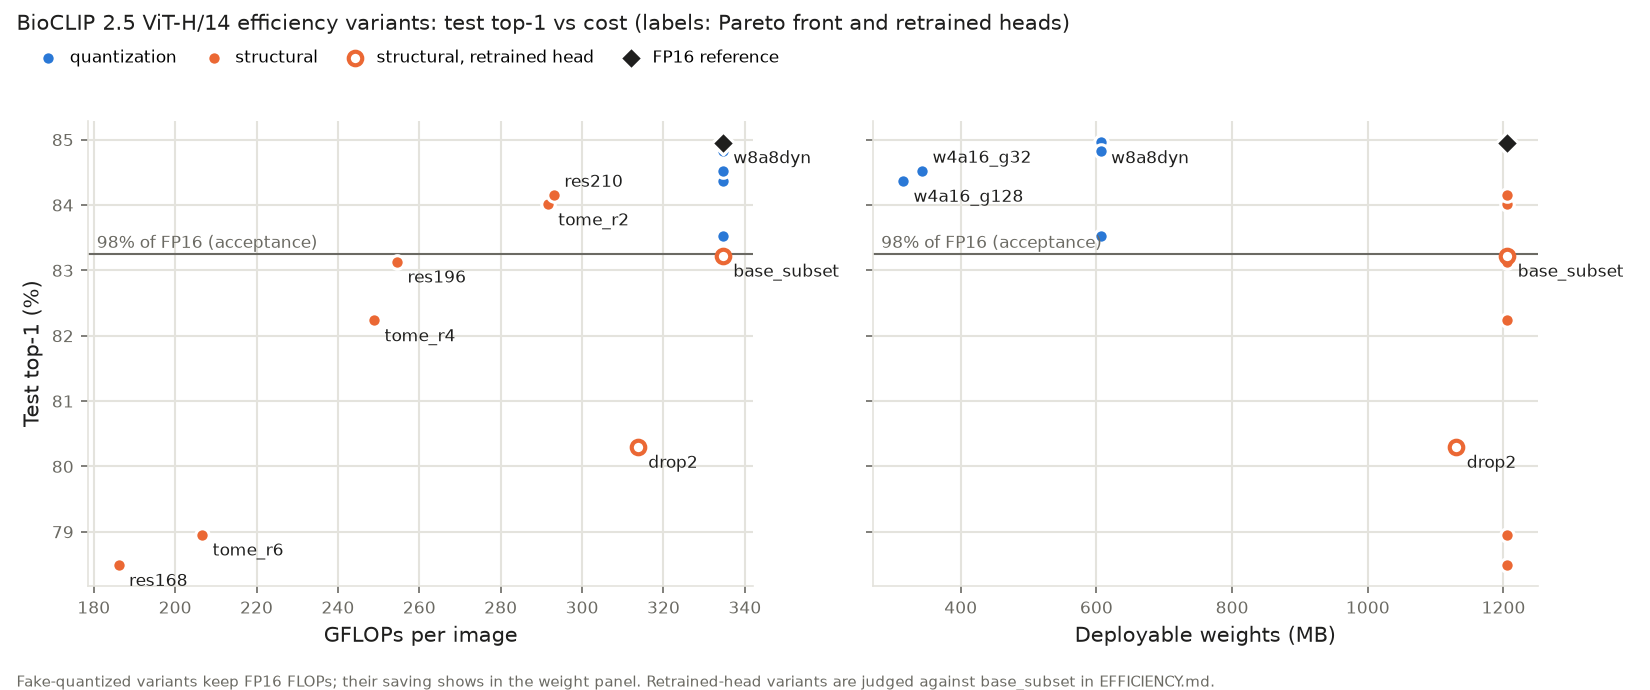
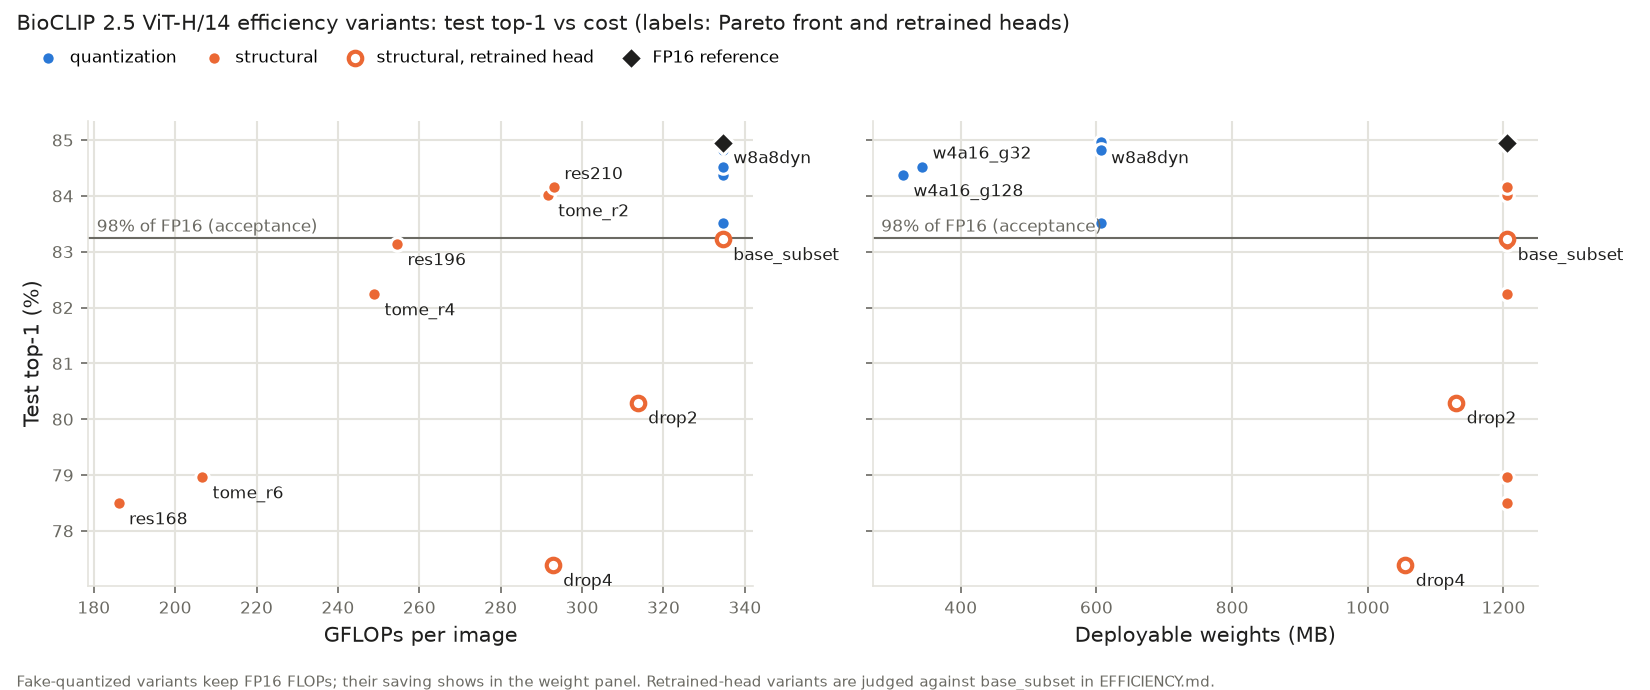
Overnight round 4: Phase A closed (drop2/drop4 dominated, res210 first fallback, 8da4w val), static+structure val_ext caveat in D-032, OWLv2 GPU fix and throughput (30 img/s), STATUS: DONE

diff --git a/ops/OVERNIGHT.md b/ops/OVERNIGHT.md
@@ -62,9 +62,9 @@ Notes on the token-merging grid:
 
 ## Plan
 ### Phase A: efficiency (priority)
-- [ ] **A1 (round 3: 5 of 6 done):**
+- [x] **A1 (done in round 4):**
   - Done: `fp16` 84.95, `w8a16` 84.94, `w8a8dyn` 84.96, `w4a16_g128` 84.37 (−0.58 pt, 315 MB), `w4a16_g32` 84.52 (−0.43 pt, 343 MB).
-  - Queued: `w4a8dyn_g32` (after the A4 screens and `res210`).
+  - `w4a8dyn_g32` (8da4w), val-only: regional val 89.66% (`w4a16_g32` 89.63%), val_ext 48.05% (48.34%). Dynamic INT8 activations add nothing on top of W4, so no test run (D-032).
   - References and weight-only / dynamic quantization:
   - `fp16`
   - `w8a16`
@@ -77,20 +77,20 @@ Notes on the token-merging grid:
   - Queued, val-only: `w8a8p_s0.5_k1` and `w8a8p_s0.5_k4`, which keep `b1.fc1` (or the top 4 layers) in FP16. `b1.fc1` is 3.3× more sensitive than any other layer. This shows how much one fallback layer buys. Run k1 on test only if it recovers ≥ 0.5 pt on val and the GPU has time.
   - The calibration sampler is seeded from commit 9650bac on, so earlier static runs carry about ±0.15 pt of calibration noise.
   - **Round 3: min/max activation ranges remove the loss on val** (`w8a8_s0.5_p100`: regional val 90.10% vs FP16 90.03% and k0 88.75–88.90%; cosine 0.9955 vs 0.944). The real PT2E graph agrees: `MinMaxObserver` gives cosine 0.995 against 0.975 for the default `HistogramObserver` (`export_check.csv`, `--pt2e-only`). **Test: 84.82% (−0.12 pt, rel 0.9985), DMR 5.56% / 4.42%** (D-028: 83.52%, 6.20% / 4.68%). Recorded as **D-031**, which replaces D-028's ranges.
-- [ ] **A3: structural variants.** *(Round 3: ToMe and resolution done; `res210` added and queued, then `base_subset`, `drop2`, `drop4`.)*
+- [x] **A3: structural variants.** *(Done in round 4. Test (Δ, GFLOPs): `res210` 84.15 (−0.80 vs FP16, 293). Against `base_subset` (83.22): `drop2` 80.30 (−2.92, 314) and `drop4` 77.39 (−5.84, 293). Block dropping is dominated; see D-032.)*
   - Test top-1 (Δ vs FP16, GFLOPs): `tome_r2` 84.01 (−0.94, 292), `tome_r4` 82.24 (−2.71, 249), `tome_r6` 78.96 (−5.99, 207), `res196` 83.13 (−1.81, 255, 247 img/s vs 188), `res168` 78.49 (−6.46, 186).
   - Contact DMR rises faster than top-1 falls: `res196` 5.46 → 6.40%, `tome_r2` → 5.72%, `tome_r4` → 7.24%.
   - `tome_r2`, `tome_r4`, `tome_r6`
   - `res196`, `res168`
   - `base_subset` (retrained head on 40 images per species), then `drop2` and `drop4`. A dropped-block variant must be compared with `base_subset`, not with the production head.
-- [ ] **A4: combinations along the Pareto front.** At most about 6 jobs, chosen from A1–A3. Example: the accepted partial W8A8 with the best token-merging r or resolution, or W4A16 with token merging. For a static combination, recompute sensitivity only if the structure changes a lot.
+- [x] **A4: combinations along the Pareto front.** *(Done in round 4: two val-only screens, no test picks. Additive on regional val, but static W8A8 adds a significant val_ext loss on top of a structure: −0.76 pt on `res196`, paired p = 0.004; −0.97 pt on `tome_r2`, p = 0.001. Recorded in D-032.)* At most about 6 jobs, chosen from A1–A3. Example: the accepted partial W8A8 with the best token-merging r or resolution, or W4A16 with token merging. For a static combination, recompute sensitivity only if the structure changes a lot.
   - **GPU time is the constraint (round 2):** the queue runs until about 09:10, and the runner starts nothing after 10:00. Screen combos with `--val-only` (about 5 min each, 27K images), then run test (about 20–36 min) only for the 1–2 picks.
   - **Insert combos ahead of `base_subset`/`drop2`/`drop4`.** Those are the lowest-value jobs (−6%/−12% FLOPs, need a retrained head), so `drop4` is the first job to cut if time runs out.
   - Weight-only and dynamic INT8 are lossless (w8a16 −0.01 pt, w8a8dyn +0.01 pt), so a `w8a16 + tome_rX` combo will land within noise of `tome_rX`. Prefer combos whose interaction is uncertain: static W8A8 + tome/res, and W4 + tome/res.
   - **Round 3: screens done, both additive (round 3 journal); no combo test runs.** Original note: `w8a8_s0.5_p100_res196` and `w8a8_s0.5_p100_tome2`. Compare each with its float structure's val (`res196` 88.25, `tome_r2` 89.23). If the static penalty on top of the structure is ≤ 0.2 pt val, the combo is additive and needs no test run; the report can cite the screen. Run test only for a combo that is a real candidate (see the round 3 journal for the time rule).
-- [ ] **A5: report.**
+- [x] **A5: report.**
   - [x] Add `src/transferner/eval/efficiency_report.py`, producing `results/EFFICIENCY.md` (a table of every variant: top-1/top-5 on test, Δ vs FP16, val, weight MB, GFLOPs) and `results/figures/efficiency_pareto.png` (test top-1 against GFLOPs and against weight MB). Load the `dataviz` skill before writing the chart code. *(Round 1: written and checked on a synthetic table. It runs on the CPU and also reports DMR per variant from the saved embeddings. Rerun it whenever rows land: `python -m transferner.eval.efficiency_report`.)*
-  - [x] Add a decision entry recommending variants per runtime (LiteRT GPU, NPU, XNNPACK CPU), and state plainly what needs the phone: latency, memory and NPU compile. *(Round 3: **D-032**. GPU: W8A16, with W4A16 g32 as the memory fallback. NPU: static W8A8 per D-031. CPU: 8da8w. No structural cut by default. Still to add: `res210`, `drop2`/`drop4` and the 8da4w val number.)*
+  - [x] Add a decision entry recommending variants per runtime (LiteRT GPU, NPU, XNNPACK CPU), and state plainly what needs the phone: latency, memory and NPU compile. *(Round 3: **D-032**. GPU: W8A16, with W4A16 g32 as the memory fallback. NPU: static W8A8 per D-031. CPU: 8da8w. No structural cut by default. Round 4 added `res210`, `drop2`/`drop4`, the 8da4w val number and the static + structure val_ext caveat.)*
 - [x] **A6 (optional, after A5): export feasibility on x86.** *(LiteRT part done in round 2, recorded as D-029. ExecuTorch was not tried: it pins torch 2.15 and would need its own venv.)*
   - Set up `.venv-export` (CPU torch) with ai-edge-torch and/or executorch.
   - Export the FP16 and W8 variants and check outputs against PyTorch on 64 images.
@@ -166,10 +166,11 @@ Notes on the token-merging grid:
 - **Round 1 assessment:** the queue (A1, A2, B, A3) runs until about 09:00, and A4 comes after it, so Phase D's GPU work will not fit before the 10:00 stop tonight. A later round with spare CPU time may write `pseudo_boxes.py` and test it on a few images on the CPU. Both stubs are still `NotImplementedError`. `transformers` 5.23 and `timm` 1.0.31 are already in `.venv`.
 - **Packages:** install missing ones such as `transformers` and `timm` into `.venv` with `uv`.
 - [x] **Round 3: licences checked** (HF API, cached under `raw/hf_cards/`): `google/owlv2-base-patch16-ensemble` and `timm/mobilenetv4_conv_medium.e500_r256_in1k` are both Apache-2.0.
-- [x] **Round 3: `data/pseudo_boxes.py` written and CPU-tested.** OWLv2 over at most `--per-genus` (default 20) non-specimen images per genus from train/val/test. Boxes keep their best prompt, go through class-agnostic NMS at IoU 0.5 and are capped at 10 per image, with a full-frame fallback. OWLv2's padded-square boxes are mapped back to the original image, and the geometry was checked visually on portrait and landscape photos. Output is resumable in 2,048-image parts. Run it on the GPU through the queue, `python -m transferner.data.pseudo_boxes`, once Phase A's GPU work is done. CPU runs at 0.2 img/s. On the GPU, expect tens of img/s; measure it.
+- [x] **Round 3: `data/pseudo_boxes.py` written and CPU-tested.** OWLv2 over at most `--per-genus` (default 20) non-specimen images per genus from train/val/test. Boxes keep their best prompt, go through class-agnostic NMS at IoU 0.5 and are capped at 10 per image, with a full-frame fallback. OWLv2's padded-square boxes are mapped back to the original image, and the geometry was checked visually on portrait and landscape photos. Output is resumable in 2,048-image parts. Run it on the GPU through the queue, `python -m transferner.data.pseudo_boxes`, once Phase A's GPU work is done. CPU runs at 0.2 img/s. **Round 4: the GPU runs at 29–33 img/s** (after a device fix), so the full 27,017-image selection takes about 15 min. `drop_nested()` is the training-time cleanup.
 - **Out of reach here:** the field video test set (D-018) needs the user's walks.
 
 ## Journal
+STATUS: DONE
 (Newest last. Each round: what was seen, decided and queued, and what the next round should do first.)
 
 - **2026-11-19, interactive session (pre-launch):**
@@ -276,3 +277,45 @@ Notes on the token-merging grid:
        Then tick A1 and A3, and A4 (screens done, no test picks, see above).
     3. Don't add GPU jobs that can't start before 10:00. If the queue empties early, the only planned GPU work left is Phase D: `python -m transferner.data.pseudo_boxes`, about 30K images at 20 per genus. Throughput is unmeasured, so queue it only if it would start before about 09:30.
     4. After 10:00 everything left is phone work (D-032's list), Phase B's bryophyte field photos (needs the manifests free), Phase C's second source (USDA still 504), and Phase D training. Unless a job failed, write `STATUS: DONE` under "## Journal" with that summary.
+- **2026-11-19, round 4 (09:25–10:02):**
+  - **Found:**
+    - All jobs since round 3 finished with rc 0: `res210`, `w4a8dyn_g32` (val-only), `base_subset`, `drop2` and `drop4`.
+    - **`res210`:** test 84.15% (−0.80 pt) at −12% GFLOPs and +7% GPU img/s. DMR 5.68% / 4.67%. At `tome_r2`'s FLOPs it scores 0.14 pt more (paired McNemar p = 0.019) and keeps a plain static graph, so it is the first structural fallback in D-032.
+    - **Block dropping is dominated** (Δ against `base_subset`, 83.22%):
+      - `drop2`: −2.92 pt for −6% GFLOPs; contact DMR 6.16% → 8.63%.
+      - `drop4`: −5.84 pt (77.39%) for −12.5% GFLOPs, the same saving as `res210` at seven times the loss; contact DMR 10.40%.
+      - `res210` saves twice `drop2`'s FLOPs at about a quarter of the loss. Block dropping is off D-032's fallback list.
+    - **8da4w** (`w4a8dyn_g32`, val-only): regional val 89.66% against `w4a16_g32`'s 89.63%. No test run (D-032).
+    - **Round 3's open val_ext signal is real** (paired McNemar on the saved val_ext embeddings, CPU):
+      - Static W8A8 on top of `res196`: −0.76 pt, p = 0.004.
+      - On top of `tome_r2`: −0.97 pt, p = 0.001.
+      - Static W8A8 alone (vs FP16): −0.03 pt, p = 0.95.
+      - Regional val is identical to the structure's in both combos.
+      - Calibration already runs through the structural model at the variant's resolution, and min/max ranges don't depend on the sampling seed. So this is an interaction, not calibration noise, and round 3's "different calibration seed" check would not separate it.
+      - **Decided:** caveat in D-032 only. No structural cut is shipped by default, and no GPU time is left tonight.
+  - **Code (CPU):**
+    - `efficiency_report`: agreement and McNemar are now recomputed from saved predictions against each row's own reference. Before this, `drop2`'s "agree ref" was against `fp16` even though the row says `base_subset`. The `fp16`-referenced rows reproduce the CSV values exactly.
+    - The Pareto figure now labels retrained heads and keeps crowded labels apart.
+    - `pseudo_boxes.drop_nested()` is the training-time cleanup proposed in round 3: drop boxes ≥ 90% inside a larger box of the same image. On smoke64 it removes 19 of 77 boxes (13 are "a leaf"), boxes per image go from 1.60 to 1.21 and the median area from 0.29 to 0.60. `boxes.parquet` stays raw, and `main()` is unchanged.
+  - **Phase C:** USDA PLANTS still returns 504 (`plants.sc.egov.usda.gov`), as of 09:31. That was this round's one retry.
+  - **Side signal for Phase B (not acted on):**
+    - `base_subset`'s balanced head (40 images per species, `w_field` 8) reaches val_ext 57.77%, against the D-030 production head's 51.91%. `val_ext_bryo` is 36.39% against 32.47%.
+    - It costs 2.68 pt of regional val (88.82 vs 91.50), so it fails D-026 as it stands.
+    - **Not a new lever.** It's the known trade-off between regional val and val_ext that D-025/D-026 already set. Logit adjustment is in the recipe (τ = 0.5), τ = 1 cost 0.8 pt of regional val, and rare-species shrinkage `shrink_b100_k30` reached val_ext 55.2% at regional val 89.35%. Under the D-026 rule (≤ 0.1 pt), none of these pass. Nothing queued.
+    - The efficiency run's `val_rare` is a different, smaller set (zero-shot 31% vs 60.5%), so ignore that column when comparing.
+  - **Queue:** no new long jobs. The only addition was a bounded OWLv2 throughput test, `pseudo_boxes --limit 1024` into `artifacts/pseudo_boxes_speed/`, after `drop4`. The plan said to measure it, and the full run was not to start after about 09:30.
+    - Its first attempt (09:56) **crashed on the GPU path**: the DataLoader's image sizes were on the CPU and OWLv2's boxes on CUDA. Round 3's CPU smoke test couldn't see that.
+    - Fixed in 347f8b1 (`boxes_for` moves the sizes to the logits' device) and requeued. It started at 09:58:17 and finished with rc 0.
+    - **Throughput: 29–33 img/s.** The full default selection (20 per genus, train/val/test) is 27,017 images over 1,362 genera, **about 15 min of GPU**.
+    - On these 1,024 images: fallback 28.8%, 1.80 boxes per image, median area 0.19. `drop_nested()` removes 323 of 1,310 boxes (211 are "a leaf"), giving 1.35 boxes per image and a median area of 0.35.
+  - **Status:** Phase A is finished (A1–A6 ticked). B, C and D are blocked on things this loop can't do before the 10:00 stop:
+    - B: the bryophyte field-photo pull rewrites the manifests and takes hours of download.
+    - C: USDA is down, and there is no other structured source.
+    - D: detector training is GPU-heavy, and the field video needs the user's walks.
+    - D-032's phone list needs the Pixel.
+    Hence `STATUS: DONE`.
+  - **Next session should first:**
+    1. Read D-031/D-032 and `results/EFFICIENCY.md`. Those are the efficiency answer. The phone work is D-032's "Needs the phone" list.
+    2. Phase D: run `python -m transferner.data.pseudo_boxes` through the queue (about 15 min, 27K images), then write `train/train_detector.py` with `drop_nested()` at load.
+    3. Phase B: the bryophyte field-photo pull (needs a `train_only` flag in `splits.py`), the one moss lever left untried.
+    4. If an NPU build ever needs a structural cut: screen that exact static combo on val_ext first, and try calibrating on a pool that includes `train_ext` field photos.

diff --git a/DECISIONS.md b/DECISIONS.md
@@ -94,8 +94,19 @@ Newest at the bottom. Format: ID · date · decision · why.
   - **Frame:** BioCLIP runs once per captured still, with a ≤ 10 s budget (D-002, D-011). It doesn't run per frame, so FLOPs matter only if the phone misses the budget. Accuracy, safety (DMR) and memory or download size come first.
   - **LiteRT GPU delegate (first choice, `export.yaml: delegate_order`): W8A16,** INT8 weights per channel with FP16 activations. 606 MB; test 84.94% (Δ −0.01 pt, McNemar p 0.74); DMR 5.44% / 4.36% (FP16 5.46% / 4.41%). The memory-saving fallback is **W4A16 g32**: 343 MB, 84.52% (−0.43 pt). g128 is 315 MB at 84.37% (−0.58 pt), so g32 buys 0.15 pt for 28 MB.
   - **NPU: static W8A8 per D-031** (128 block linears, everything else float, min/max ranges, SmoothQuant 0.5). Test 84.82% (−0.12 pt), DMR 5.56% / 4.42%, 606 MB. No layer needs to stay FP16, so D-011's "partial" W8A8 is full W8A8 over the linears.
-  - **XNNPACK CPU (generic arm64 fallback, D-003): W8A8 dynamic (8da8w).** 606 MB; test 84.96% (+0.01 pt); DMR unchanged; on x86 it runs 3× faster than FP16 or W8 weight-only (110 vs 322 ms, D-029). 8da4w (`w4a8dyn_g32`, about 343 MB) is queued val-only. Since dynamic INT8 activations are lossless, its test result should match `w4a16_g32`'s 84.52%; the next round adds the val check.
-  - **Structure: none by default.** Every structural variant measured costs at least 0.9 pt of test top-1, and DMR rises faster still (`res196`: −1.81 pt, contact DMR 5.46% → 6.40%). If the phone misses the 10 s budget, the fallback order is lowering the input resolution (`res210`, then `res196`: −24% GFLOPs, +31% GPU throughput, a plain static shape) before token merging. ToMe's `tome_r2` costs less (−0.94 pt at −13%), but its gather/scatter, masked attention and data-dependent token selection are the hardest ops for a GPU or NPU delegate, and on ROCm `tome_r2` ran no faster than FP16 while `tome_r4` gained only 15% for 26% fewer FLOPs. **Pending:** `res210`, and block dropping (`drop2`, `drop4`, with retrained heads compared against `base_subset`), are queued. The fallback order is revisited when they land.
+  - **XNNPACK CPU (generic arm64 fallback, D-003): W8A8 dynamic (8da8w).** 606 MB; test 84.96% (+0.01 pt); DMR unchanged; on x86 it runs 3× faster than FP16 or W8 weight-only (110 vs 322 ms, D-029). **8da4w** (`w4a8dyn_g32`, 343 MB) is the CPU choice when 606 MB is too much. Val-only (round 4): regional val 89.66% against `w4a16_g32`'s 89.63%, val_ext 48.05% (48.34%). Dynamic INT8 activations add nothing on top of W4, so its test top-1 is taken as `w4a16_g32`'s 84.52% (not run).
+  - **Structure: none by default.** Every structural variant measured costs at least 0.8 pt of test top-1 (`res210`), and DMR rises faster still (`res196`: −1.81 pt, contact DMR 5.46% → 6.40%). If the phone misses the 10 s budget, the fallback order is lowering the input resolution (`res210`, then `res196`: −24% GFLOPs, +31% GPU throughput, a plain static shape) before token merging. ToMe's `tome_r2` costs less (−0.94 pt at −13%), but its gather/scatter, masked attention and data-dependent token selection are the hardest ops for a GPU or NPU delegate, and on ROCm `tome_r2` ran no faster than FP16 while `tome_r4` gained only 15% for 26% fewer FLOPs. **Round 4 update:**
+    - **`res210` is the first fallback.** It costs 0.80 pt of test (84.15%) for −12% GFLOPs (293 vs 335) and +7% GPU img/s, with DMR 5.68% / 4.67%. At `tome_r2`'s FLOPs it scores 0.14 pt more (paired McNemar p = 0.019) and keeps a plain static graph. The order is `res210`, then `res196`, and ToMe only if a delegate turns out to handle it.
+    - **Block dropping is off the list.** Against `base_subset`, the same 40-per-species retrained head on intact features (test 83.22%):
+      - `drop2` loses 2.92 pt (80.30%) for −6% GFLOPs.
+      - `drop4` loses 5.84 pt (77.39%) for −12.5% GFLOPs, which is `res210`'s saving at seven times the loss.
+      - Contact DMR rises from 6.16% to 8.63% (`drop2`) and 10.40% (`drop4`).
+  - **Static W8A8 on top of a structural cut (an NPU fallback) costs out-of-region photos extra.** The A4 screens are additive on regional val (`res196` 88.25 → 88.25%, `tome_r2` 89.23 → 89.23%), but not on val_ext:
+    - `res196`: −0.76 pt (paired McNemar p = 0.004).
+    - `tome_r2`: −0.97 pt (p = 0.001).
+    - Static W8A8 alone costs val_ext nothing (−0.03 pt, p = 0.95).
+    - Calibration already runs through the structural model at its own resolution, and min/max ranges don't depend on the sampling seed, so this is an interaction, not calibration noise. Test is regional and can't see it.
+    - Before an NPU build ships with a structural cut, screen that exact combination on val_ext, and try calibrating on a pool that includes out-of-region field photos (`train_ext`).
   - **Needs the phone:**
     - Latency per delegate (GPU, NPU, CPU) on Tensor G4, against the 10 s budget.
     - Peak memory, including whether the GPU delegate keeps INT8 weights or expands them to FP16 at load (606 MB vs 1.2 GB resident).

diff --git a/results/EFFICIENCY.md b/results/EFFICIENCY.md
@@ -17,6 +17,7 @@ Latency, memory and NPU compile need the phone; GPU img/s here is a ROCm proxy f
 | w8a8p_s0.5_k0 | quantization | fp16 | 83.52 | -1.43 | 0.9832 | 96.12 | 88.75 | 49.95 | 58.12 | 0.9031 | 2.9e-123 | 6.20 | 4.68 | 606 | 334.6 | – |
 | base_subset | structural | – | 83.22 | – | – | 95.93 | 88.82 | 57.77 | 65.62 | – | – | 6.16 | 4.75 | 1206 | 334.6 | 189 |
 | drop2 | structural | base_subset | 80.30 | -2.92 | 0.9649 | 94.33 | 86.59 | 53.27 | 61.36 | 0.8419 | 1.4e-318 | 8.63 | 6.67 | 1131 | 313.7 | 201 |
+| drop4 | structural | base_subset | 77.39 | -5.84 | 0.9299 | 92.88 | 84.72 | 48.80 | 56.42 | 0.8013 | 0.0e+00 | 10.40 | 7.92 | 1055 | 292.8 | 215 |
 | res168 | structural | fp16 | 78.49 | -6.46 | 0.9240 | 93.52 | 83.72 | 42.41 | 50.21 | 0.8382 | 0.0e+00 | 8.99 | 7.65 | 1206 | 186.1 | 339 |
 | res196 | structural | fp16 | 83.13 | -1.81 | 0.9786 | 95.74 | 88.25 | 47.08 | 55.57 | 0.8984 | 2.4e-193 | 6.40 | 5.23 | 1206 | 254.5 | 247 |
 | res210 | structural | fp16 | 84.15 | -0.80 | 0.9906 | 96.19 | 89.49 | 47.93 | 57.03 | 0.9093 | 7.6e-43 | 5.68 | 4.67 | 1206 | 293.1 | 201 |
